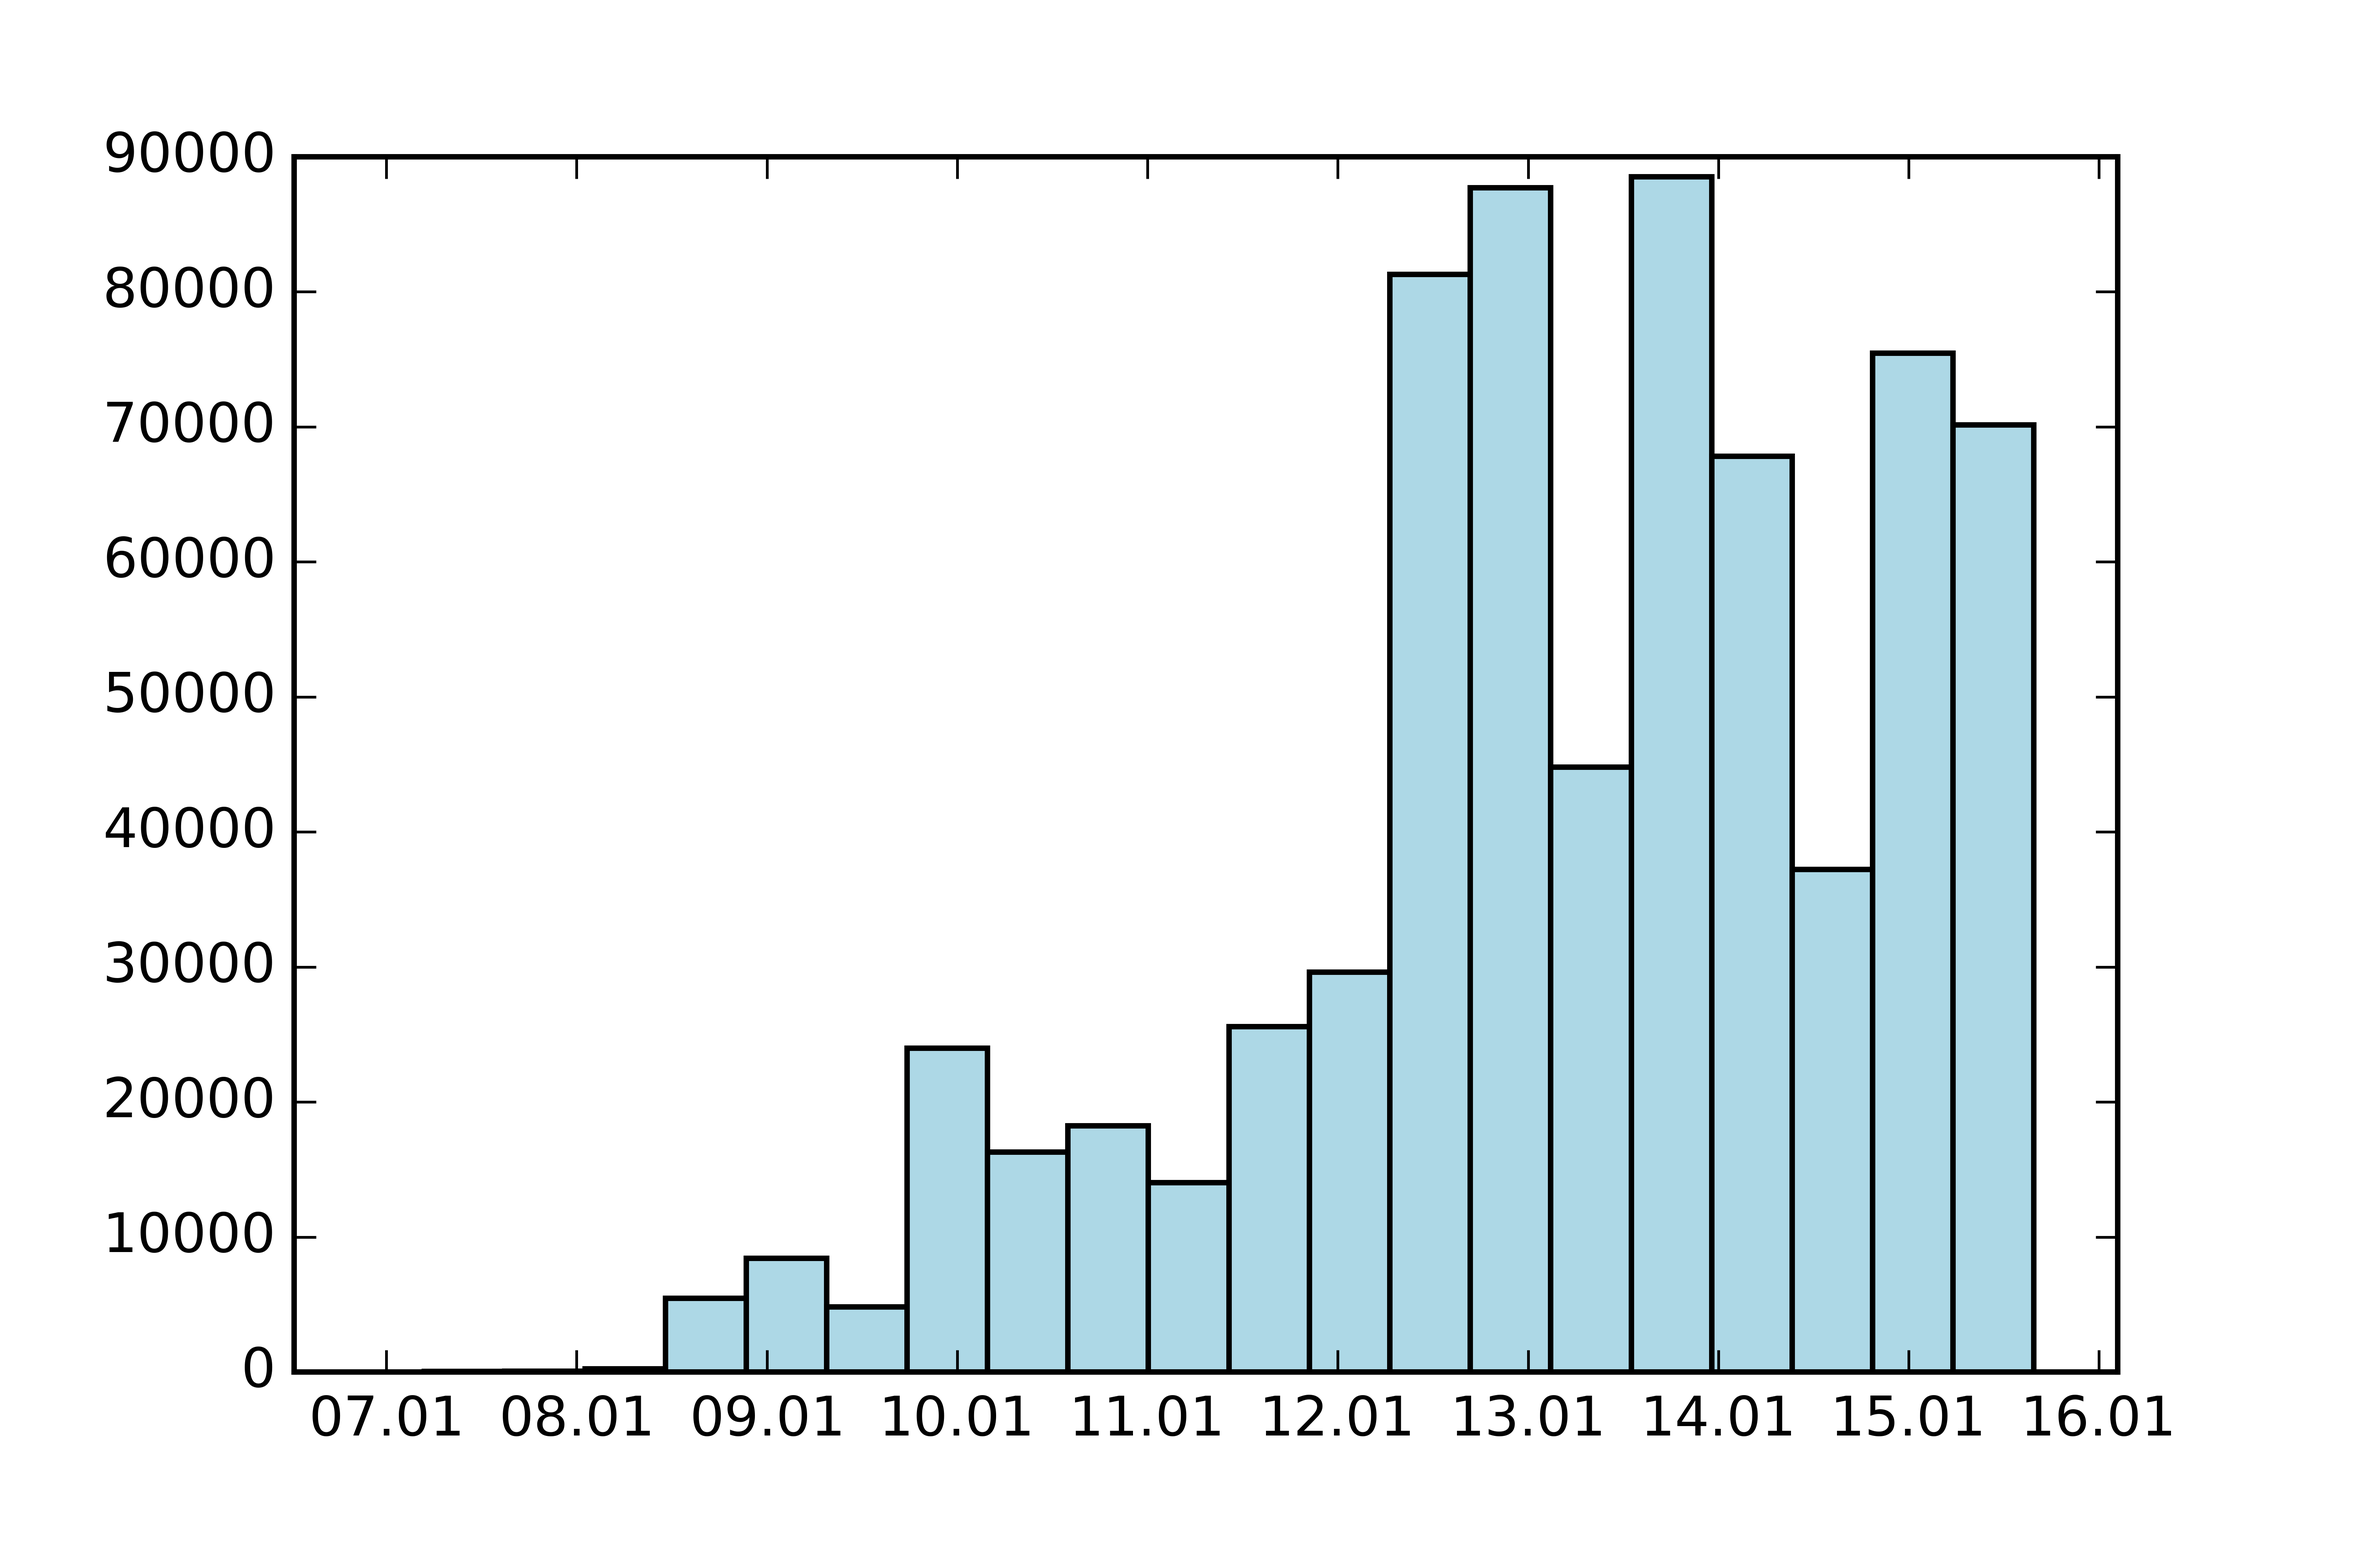
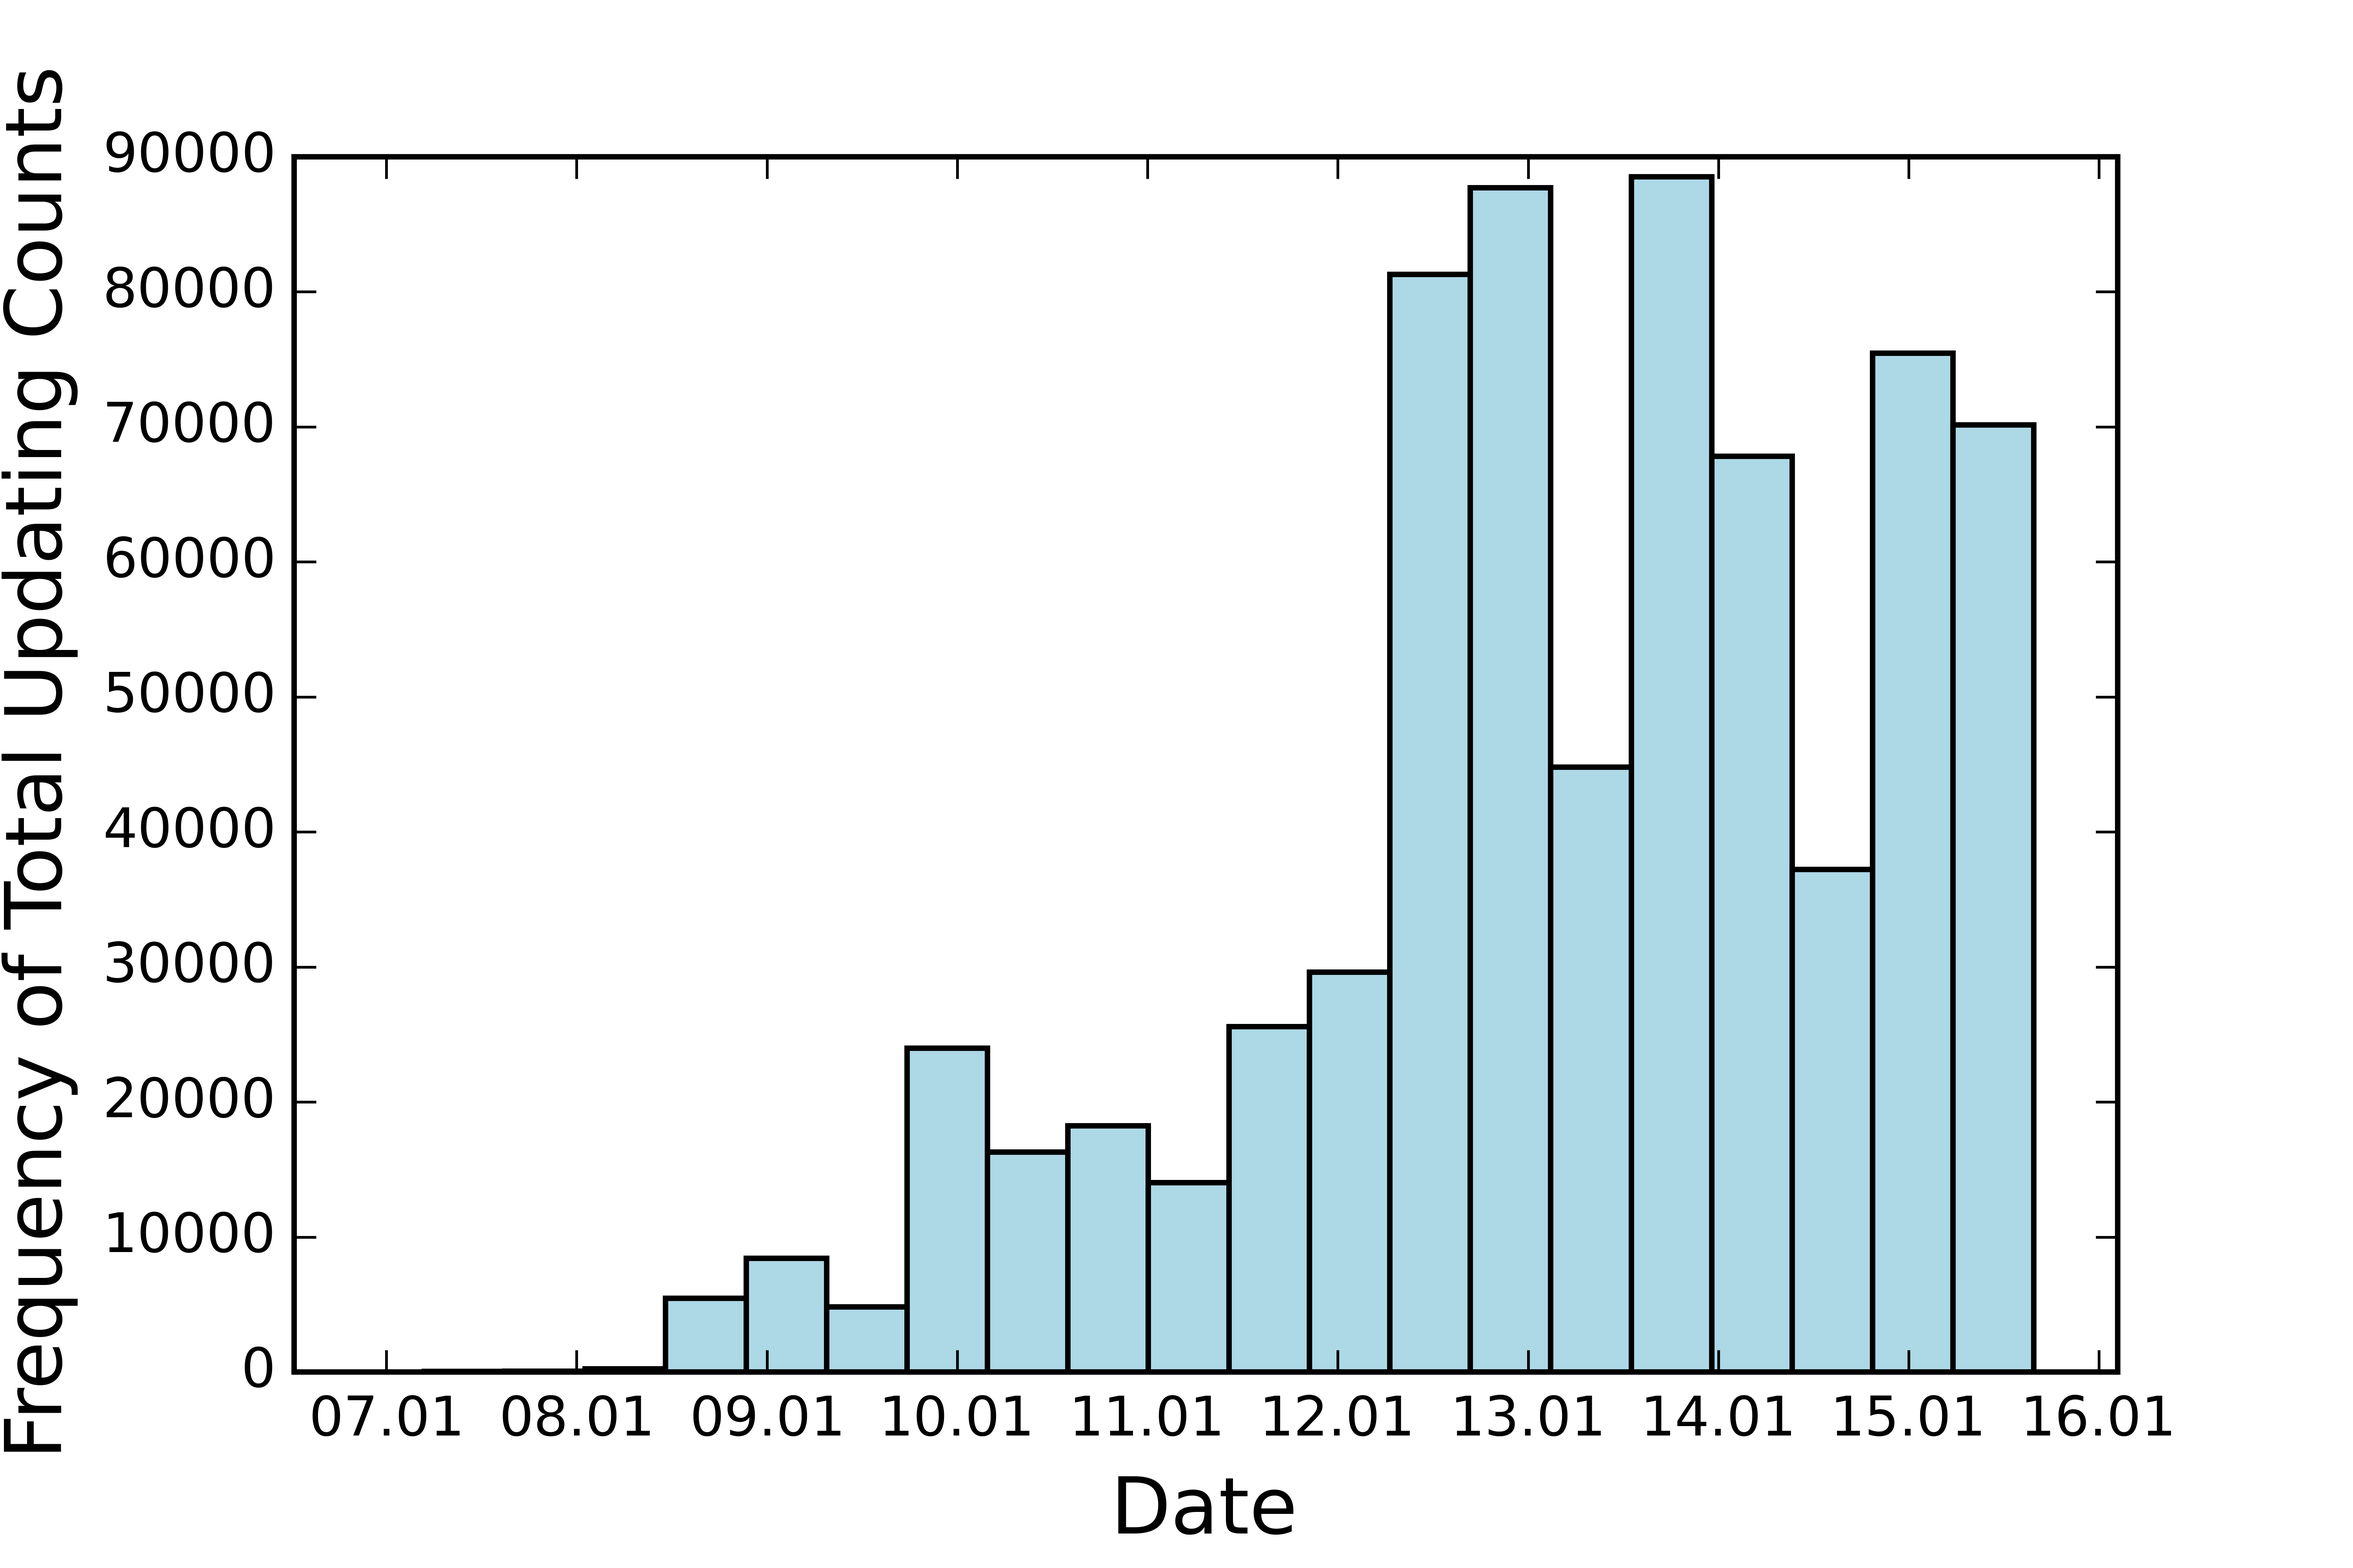
Also most finishing

Changed region(s): [[0.0, 0.0312, 0.0312, 0.6562], [0.0, 0.6875, 0.0312, 0.9375], [0.4675, 0.9375, 0.561, 1.0]]

diff --git a/db_functions.py b/db_functions.py
@@ -88,7 +88,7 @@ def plot_datetime_hist_png(datetime_list,png_filename, labels):
 
 def plot_timestamp_png(collection,png_filename):
     date_string_list = get_all_timestamp_string_list(collection)
-    plot_datetime_hist_png(date_string_list, png_filename)
+    plot_datetime_hist_png(date_string_list, png_filename, ['Date', 'Frequency of Total Updating Counts'])
 
 
 
